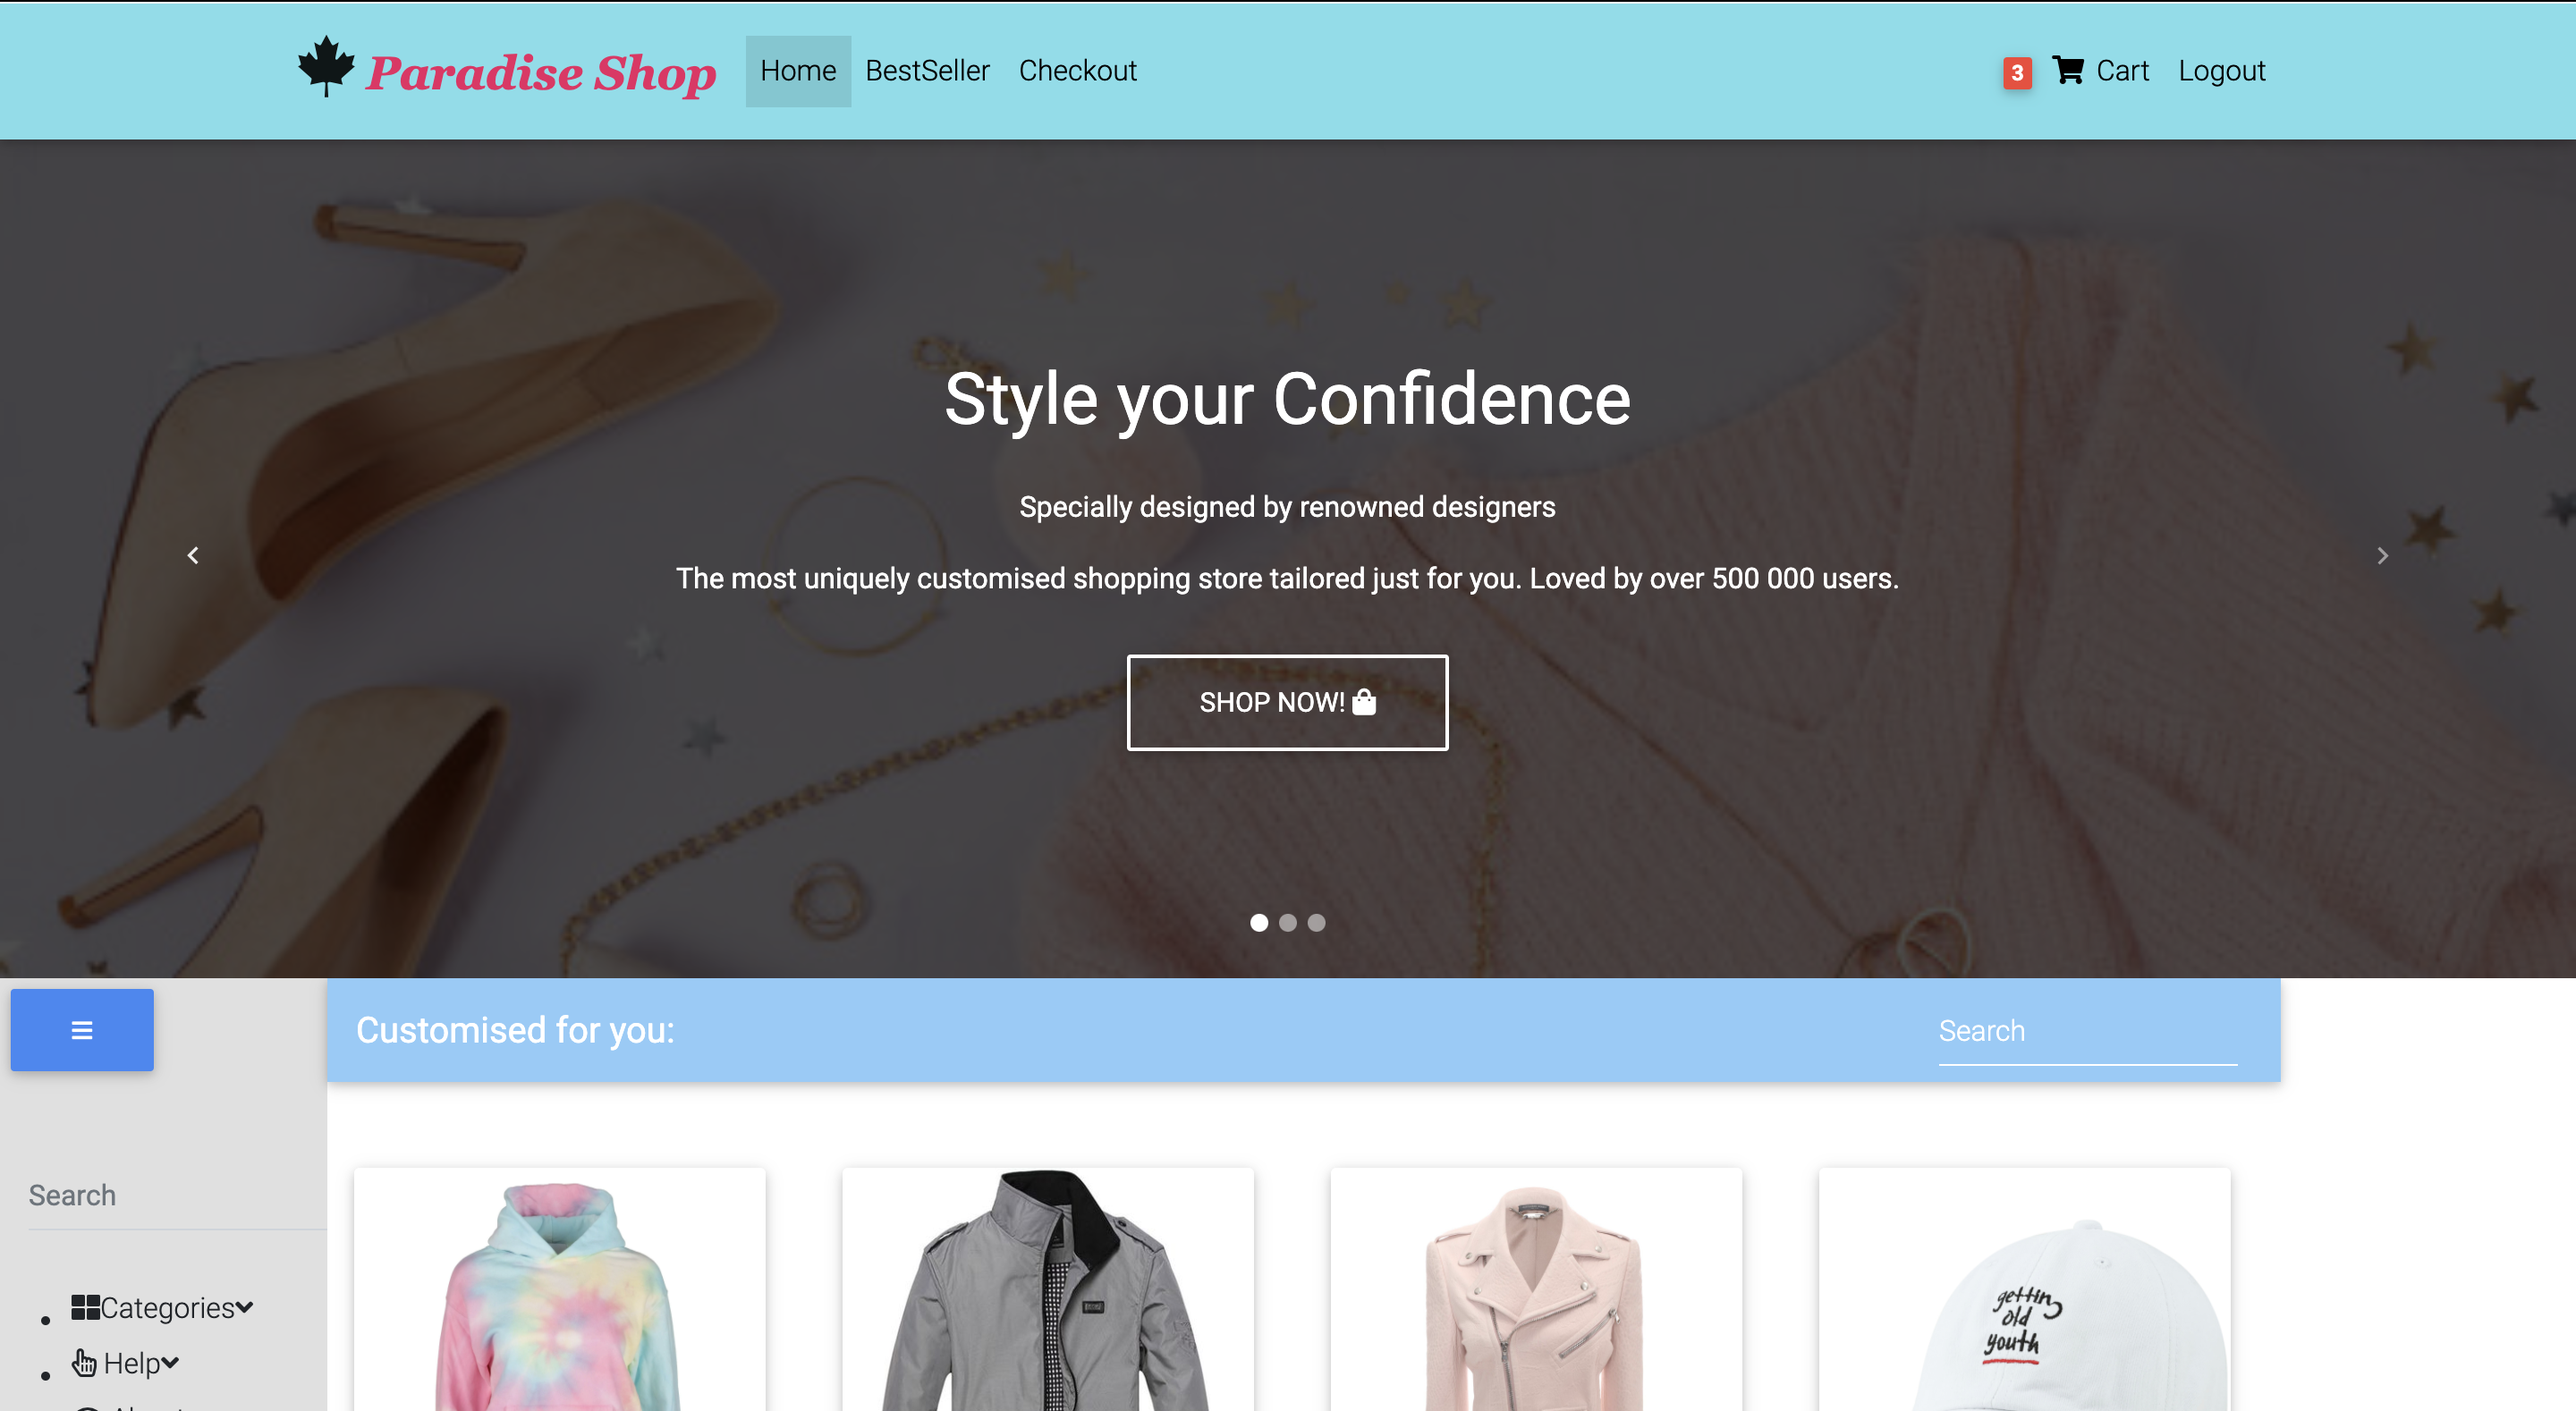
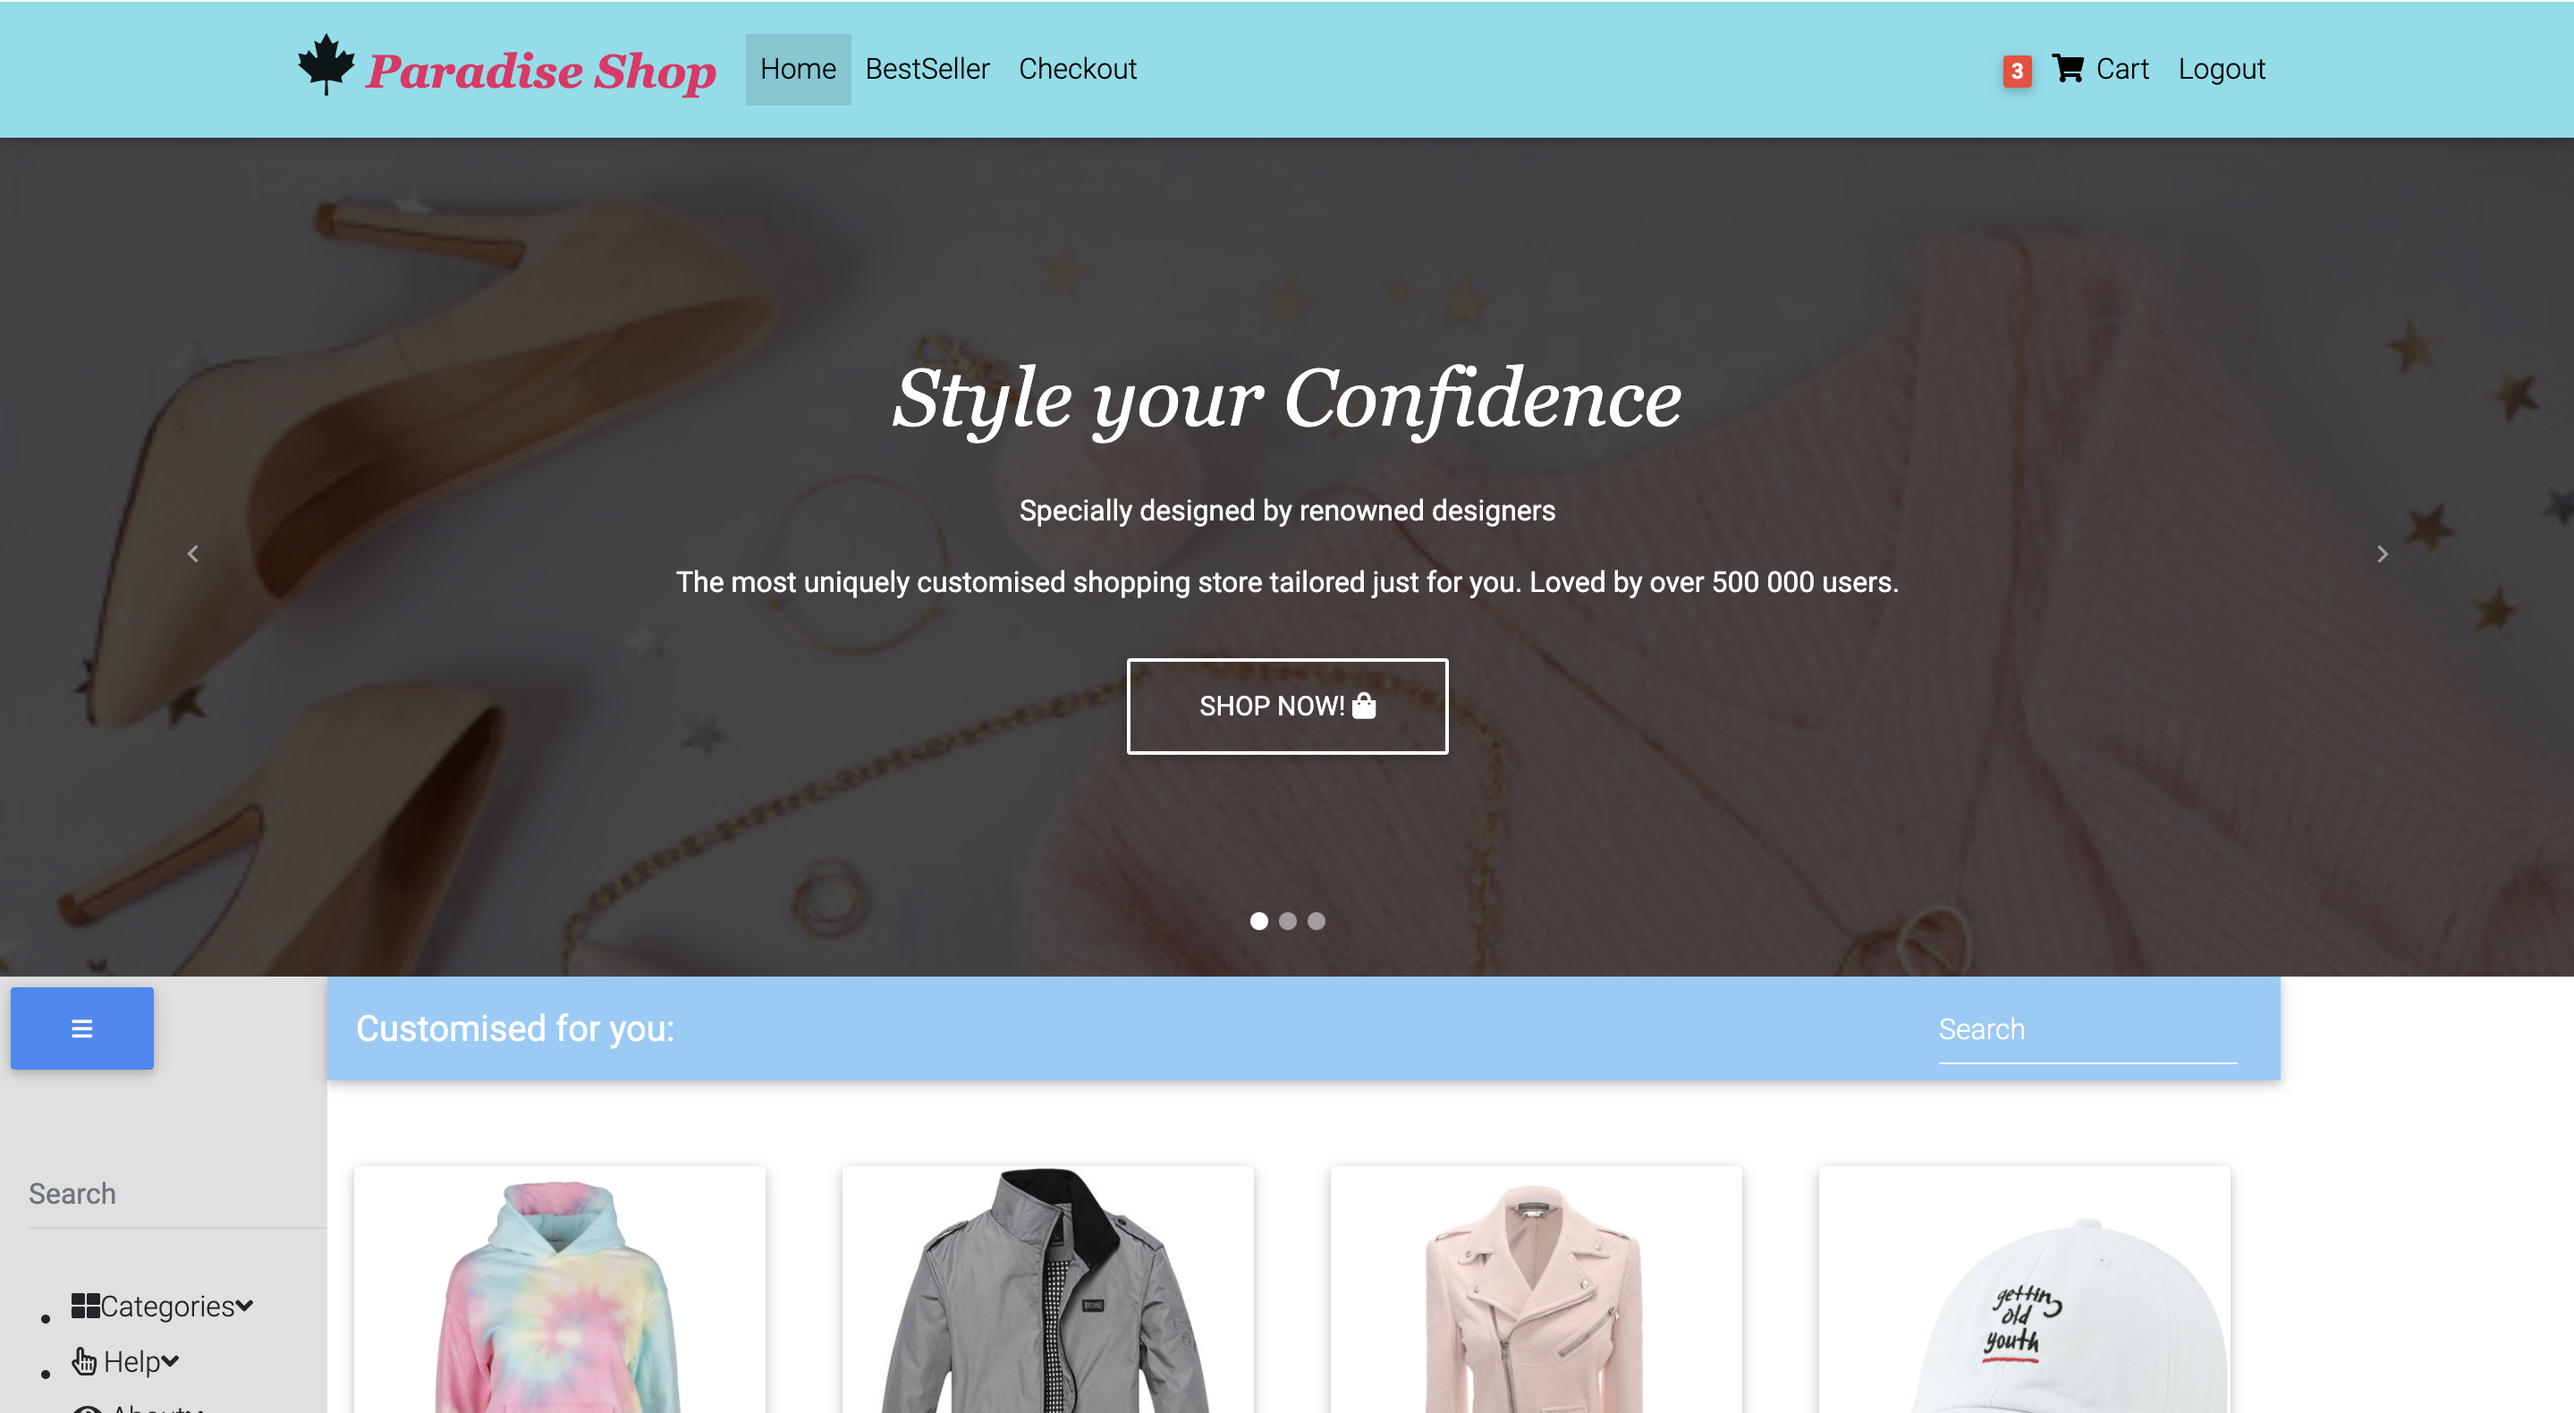
Update README

diff --git a/templates/carousel.html b/templates/carousel.html
@@ -23,7 +23,7 @@
             <!-- Content -->
             <div class="text-center white-text mx-5 wow fadeIn">
               <h1 class="mb-4">
-                <strong>Style your Confidence</strong>
+                <strong style = "font-family:georgia,garamond,serif;font-size:45px;font-style:italic;">Style your Confidence</strong>
               </h1>
 
               <p>
@@ -57,7 +57,7 @@
             <!-- Content -->
             <div class="text-center white-text mx-5 wow fadeIn">
               <h1 class="mb-4">
-                <strong>Style your Confidence</strong>
+                <strong style = "font-family:georgia,garamond,serif;font-size:45px;font-style:italic;">Style your Confidence</strong>
               </h1>
 
               <p>
@@ -91,7 +91,7 @@
             <!-- Content -->
             <div class="text-center white-text mx-5 wow fadeIn">
               <h1 class="mb-4">
-                <strong>Style your Confidence</strong>
+                <strong style = "font-family:georgia,garamond,serif;font-size:45px;font-style:italic;">Style your Confidence</strong>
               </h1>
 
               <p>

diff --git a/README.md b/README.md
@@ -4,18 +4,28 @@
 
 This is an ecommerce project built using Django, HTML, CSS and bootstrap. 
 
-![Home Page - Top](/app-images/home-top-img.png)
-![Home Page - Bottom](/app-images/home-bottom-img.png)
-![BestSeller Page - Top](/app-images/bestseller-img.png)
-![Order Summary Page - Top](/app-images/order-summary-img.png)
-![checkout Page - Top](/app-images/checkout-img.png)
+![Home Page - Top](/app-images/home-top-img.png) <br> 
+
+![Home Page - Bottom](/app-images/home-bottom-img.png) <br>
+![Product Page](/app-images/product-img.png) <br>
+![BestSeller Page](/app-images/bestseller-img.png) <br>
+![Order Summary Page](/app-images/order-summary-img.png) <br>
+![checkout Page](/app-images/checkout-img.png) <br>
+
+## Features
+
+This e-commerce responsive website has a very stylish design with a key aim to provide a seamless, smooth experience for the users. I centered the theme around youthfulness by using various shades of blue to freshen up the display of the website. <br>
+
+To exhibit the minimalistic aspect of the website, I made the side navbar slidable such that the website only emphasises on the important details. 
+
+In addition, for cases where the products are on sale, new, on popular demand or has free shipping, there are also appropriate labels to deliver a relevant sense of urgency to purchase the product.
 
 
 
 
 ## Getting started
 
-Steps:
+<!-- Steps:
 
 1. Clone/pull/download this repository
 2. Create a virtualenv with `virtualenv env` and install dependencies with `pip install -r requirements.txt`
@@ -26,4 +36,4 @@ This project includes:
 
 1. Settings modules for deploying with Azure
 2. Django commands for renaming your project and creating a superuser
-3. A cli tool for setting environment variables for deployment
+3. A cli tool for setting environment variables for deployment -->
